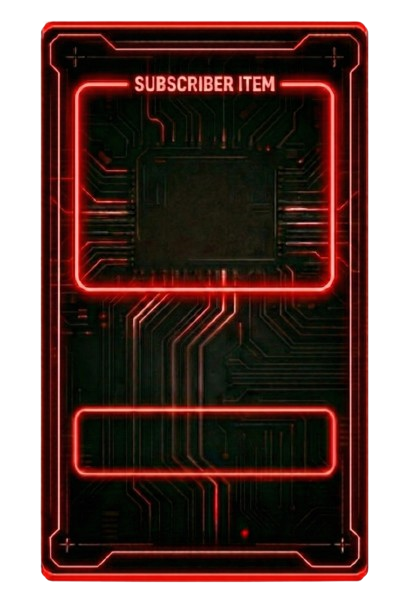
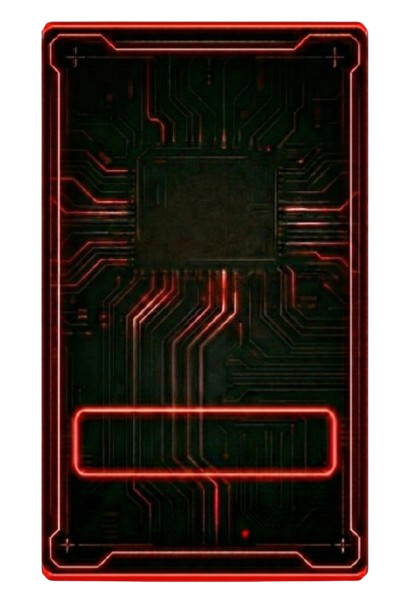
haki a rehab

diff --git a/frontend/spy_frontend/src_spy/component/roleDistribution.ts b/frontend/spy_frontend/src_spy/component/roleDistribution.ts
@@ -59,15 +59,37 @@ export function roleDistribution(playersData:any,numberOfPlayer:number,spays:num
                         <img src="${spayCard}" alt="Spy Config Card" class="w-full h-auto object-contain ">
                     </div>`
         }else{
-            p.card = `<div class = "relative card cursor-pointer transition-transform duration-200 hover:scale-105" >
-                        <img src="${normalPlayer}" alt="Spy Config Card" class="w-full h-auto object-contain ">
-                        <img src="${winItem.img}" class="h-[34vw] w-[45vw] md:h-46 md:w-61 absolute bottom-[54%] left-[20%] rounded-xl">
-                        <div class="absolute bottom-[25%] left-0 right-0 flex justify-center items-center z-10
-                        text-2xl font-bold uppercase text-[#ff4d4d] tracking-wide font-['Share_Tech_Mono'] [text-shadow:0_0_5px_#ff0000,0_0_15px_#ff0000]
-                        ">
-                            ${winItem.name}
-                        </div>
-                    </div>`
+            p.card = `<div class="relative card cursor-pointer transition-transform duration-200 hover:scale-105 w-fit">
+    
+    <!-- Background image -->
+    <img
+        src="${normalPlayer}"
+        alt="Spy Config Card"
+        class="w-full h-auto object-contain"
+    />
+
+    <!-- Box that contains the second image -->
+    <div class="absolute  top-18 left-0 right-0     flex items-center justify-center">
+        <div class="bg-black/40 p-2  border-2 border-red-400 rounded-xl">
+            <img
+                src="${winItem.img}"
+                alt=""
+                class="h-[30vw] w-[34vw] md:h-46 md:w-61 rounded-lg object-cover"
+            />
+        </div>
+    </div>
+
+    <!-- Text -->
+    <div
+        class="absolute bottom-[25%] left-0 right-0 flex justify-center items-center z-10
+        text-2xl font-bold uppercase text-[#ff4d4d] tracking-wide
+        font-['Share_Tech_Mono']
+        [text-shadow:0_0_5px_#ff0000,0_0_15px_#ff0000]"
+    >
+        ${winItem.name}
+    </div>
+</div>
+`
         }
         return p
     })
